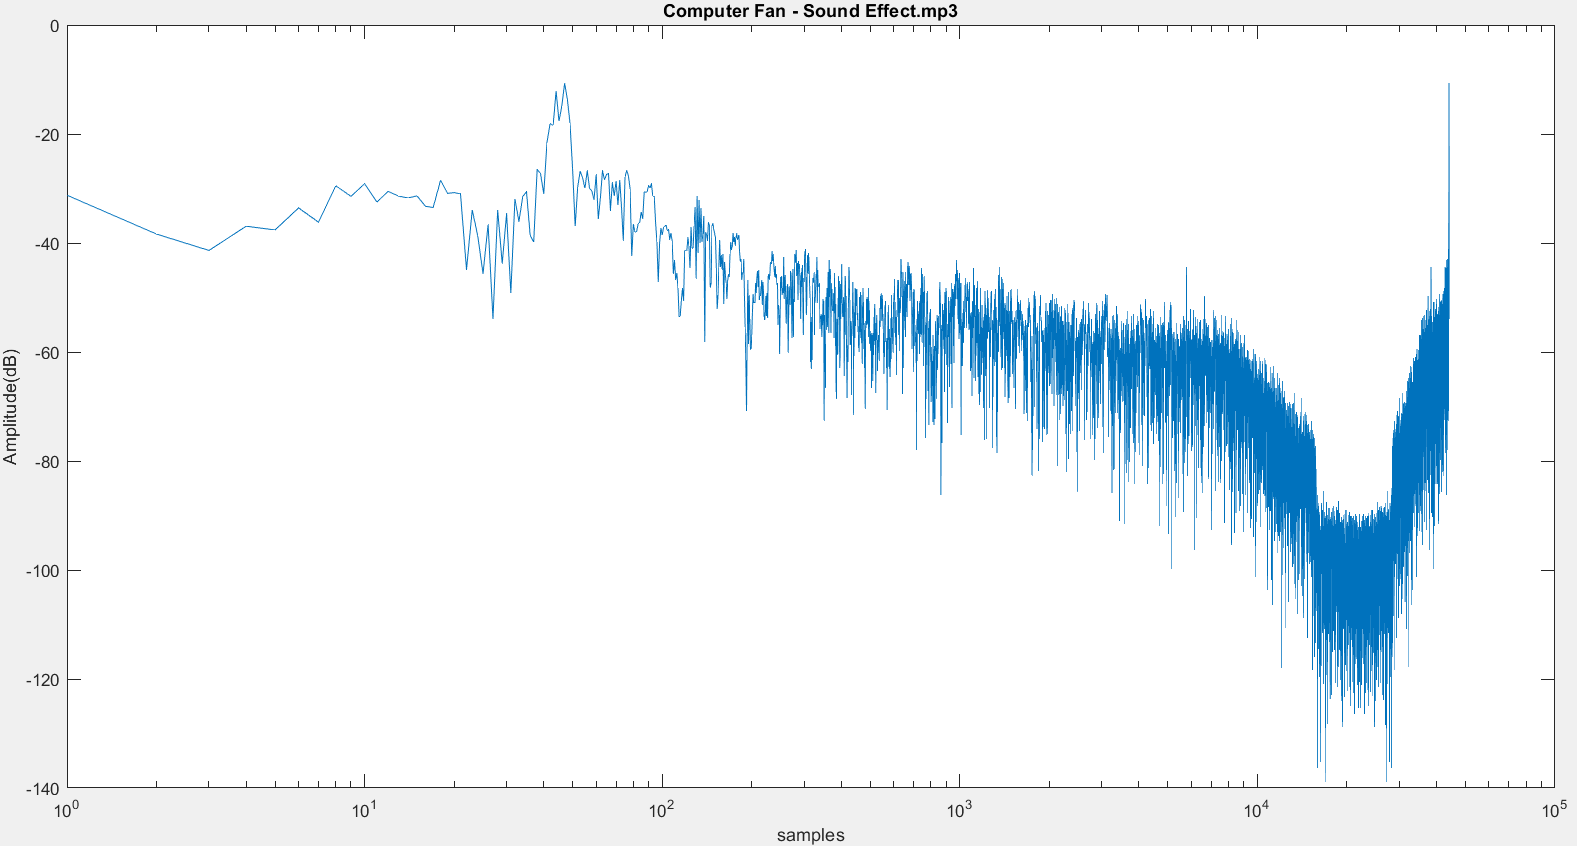
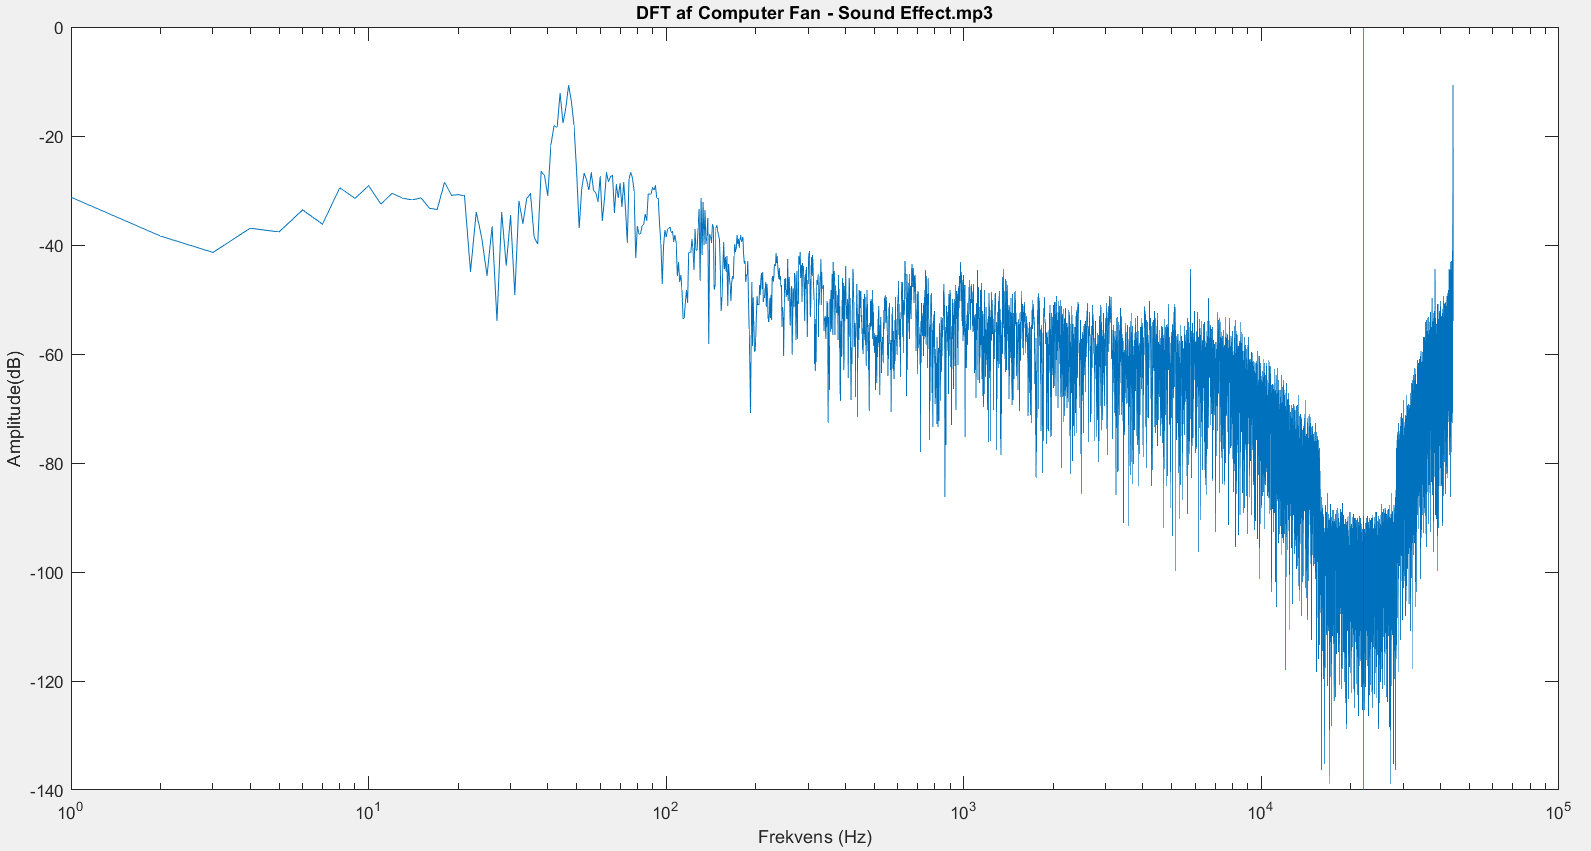
Updated pictures with correct axis

diff --git a/DSB/project2/DBS_miniprojekt_B.m b/DSB/project2/DBS_miniprojekt_B.m
@@ -43,8 +43,9 @@ sound(i).fft_axis = [0:sound(i).freq_sample/length(sound(i).sample_fft):sound(i)
 %Tegner figur på logaritmisk akse
 figure(i+2)
 semilogx(sound(i).fft_axis, 20*log10(abs((2/length(sound(i).sample_fft))*sound(i).sample_fft)))
-title(sound(i).name)
-xlabel("samples")
+xline(sound(i).freq_sample/2, "r")
+title("DFT af " + sound(i).name)
+xlabel("Frekvens (Hz)")
 ylabel("Amplitude(dB)")
 end
 
@@ -76,7 +77,7 @@ end
 
 %Indlæser samples og frekvens af dial tone
 dial_up = 3;
-sound(dial_up).name = "dial_tones.mp4";
+sound(dial_up).name = "dial tones.mp4";
 [sound(dial_up).samples, sound(dial_up).freq_sample] = audioread(sound(dial_up).name);
 
 %Bestemmer antal samples
@@ -85,9 +86,13 @@ sound(dial_up).N = length(sound(dial_up).samples);
 % Indlæser vesntre kanal af lydsignalet
 sound(dial_up).samples = sound(dial_up).samples( :, 1 );
 
+sound(dial_up).time_interval = [0:sound(dial_up).N-1]*(1/sound(dial_up).freq_sample);
 %Plotter samples
 figure(5)
-plot(sound(dial_up).samples)
+plot(sound(dial_up).time_interval, sound(dial_up).samples)
+ylabel("Amplitude (~)")
+xlabel("Tid (s)")
+title(sound(dial_up).name)
 
 % Fourier på dial up tone
 sound(dial_up).sample_fft = fft(sound(dial_up).samples, sound(dial_up).N);
@@ -109,8 +114,8 @@ for i = 1:length(tones)
     xline(tones(i),"r");
 end
 
-title(sound(dial_up).name)
-xlabel("Hz")
+title("DFT af " + sound(dial_up).name)
+xlabel("Frekvens (Hz)")
 ylabel("Amplitude(dB)")
 
 %% Opgave 6
@@ -142,8 +147,8 @@ for i = 4:6
     
     figure(10+i)
     semilogx(sound(i).f_axis(1:0.5*end), 20*log10( abs((2/sound(i).N)*sound(i).sample_fft(1:0.5*end)) ) );
-    title(sound(i).name)
-    xlabel("Hz")
+    title("DFT af " + sound(i).name)
+    xlabel("Frekvens (Hz)")
     ylabel("Amplitude(dB)")
     hold on
     

diff --git a/DSB/project2/Opgave3_12.m b/DSB/project2/Opgave3_12.m
@@ -1,6 +1,6 @@
 clc;
-for i = 1:3
-    y(i).samples = (2*rand(5000,1))-1;
+for i = 1:2
+    %y(i).samples = (2*rand(5000,1))-1;
     y(i).length = length(y(i).samples);
     
     y(i).dft = fft(y(i).samples, y(i).length-1);
